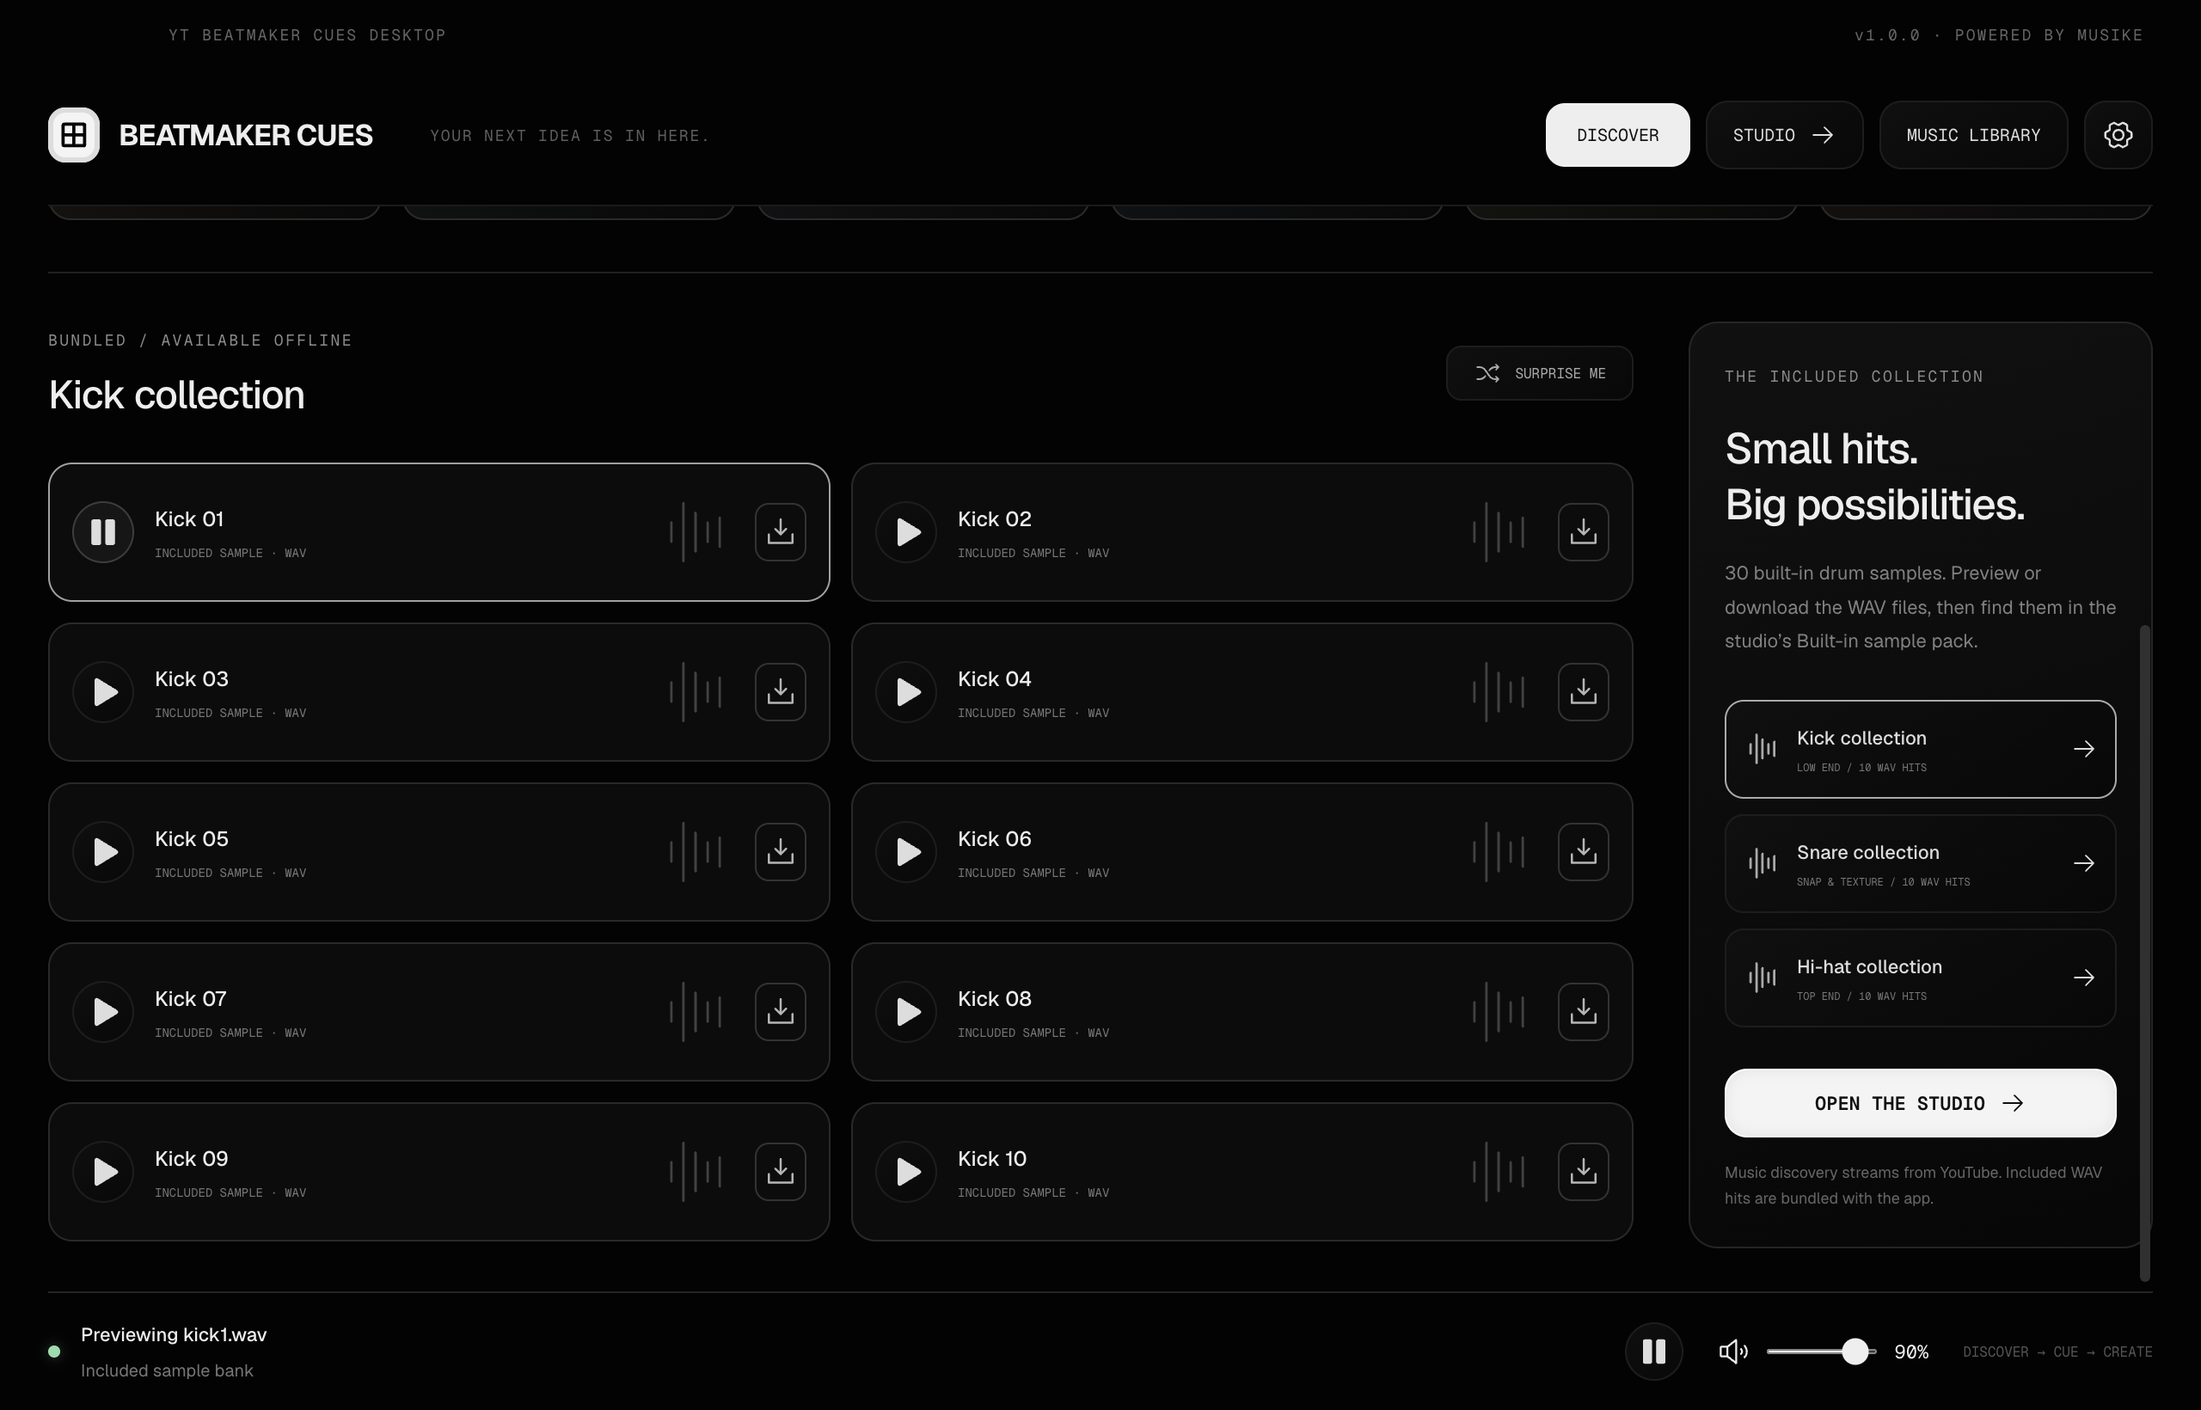
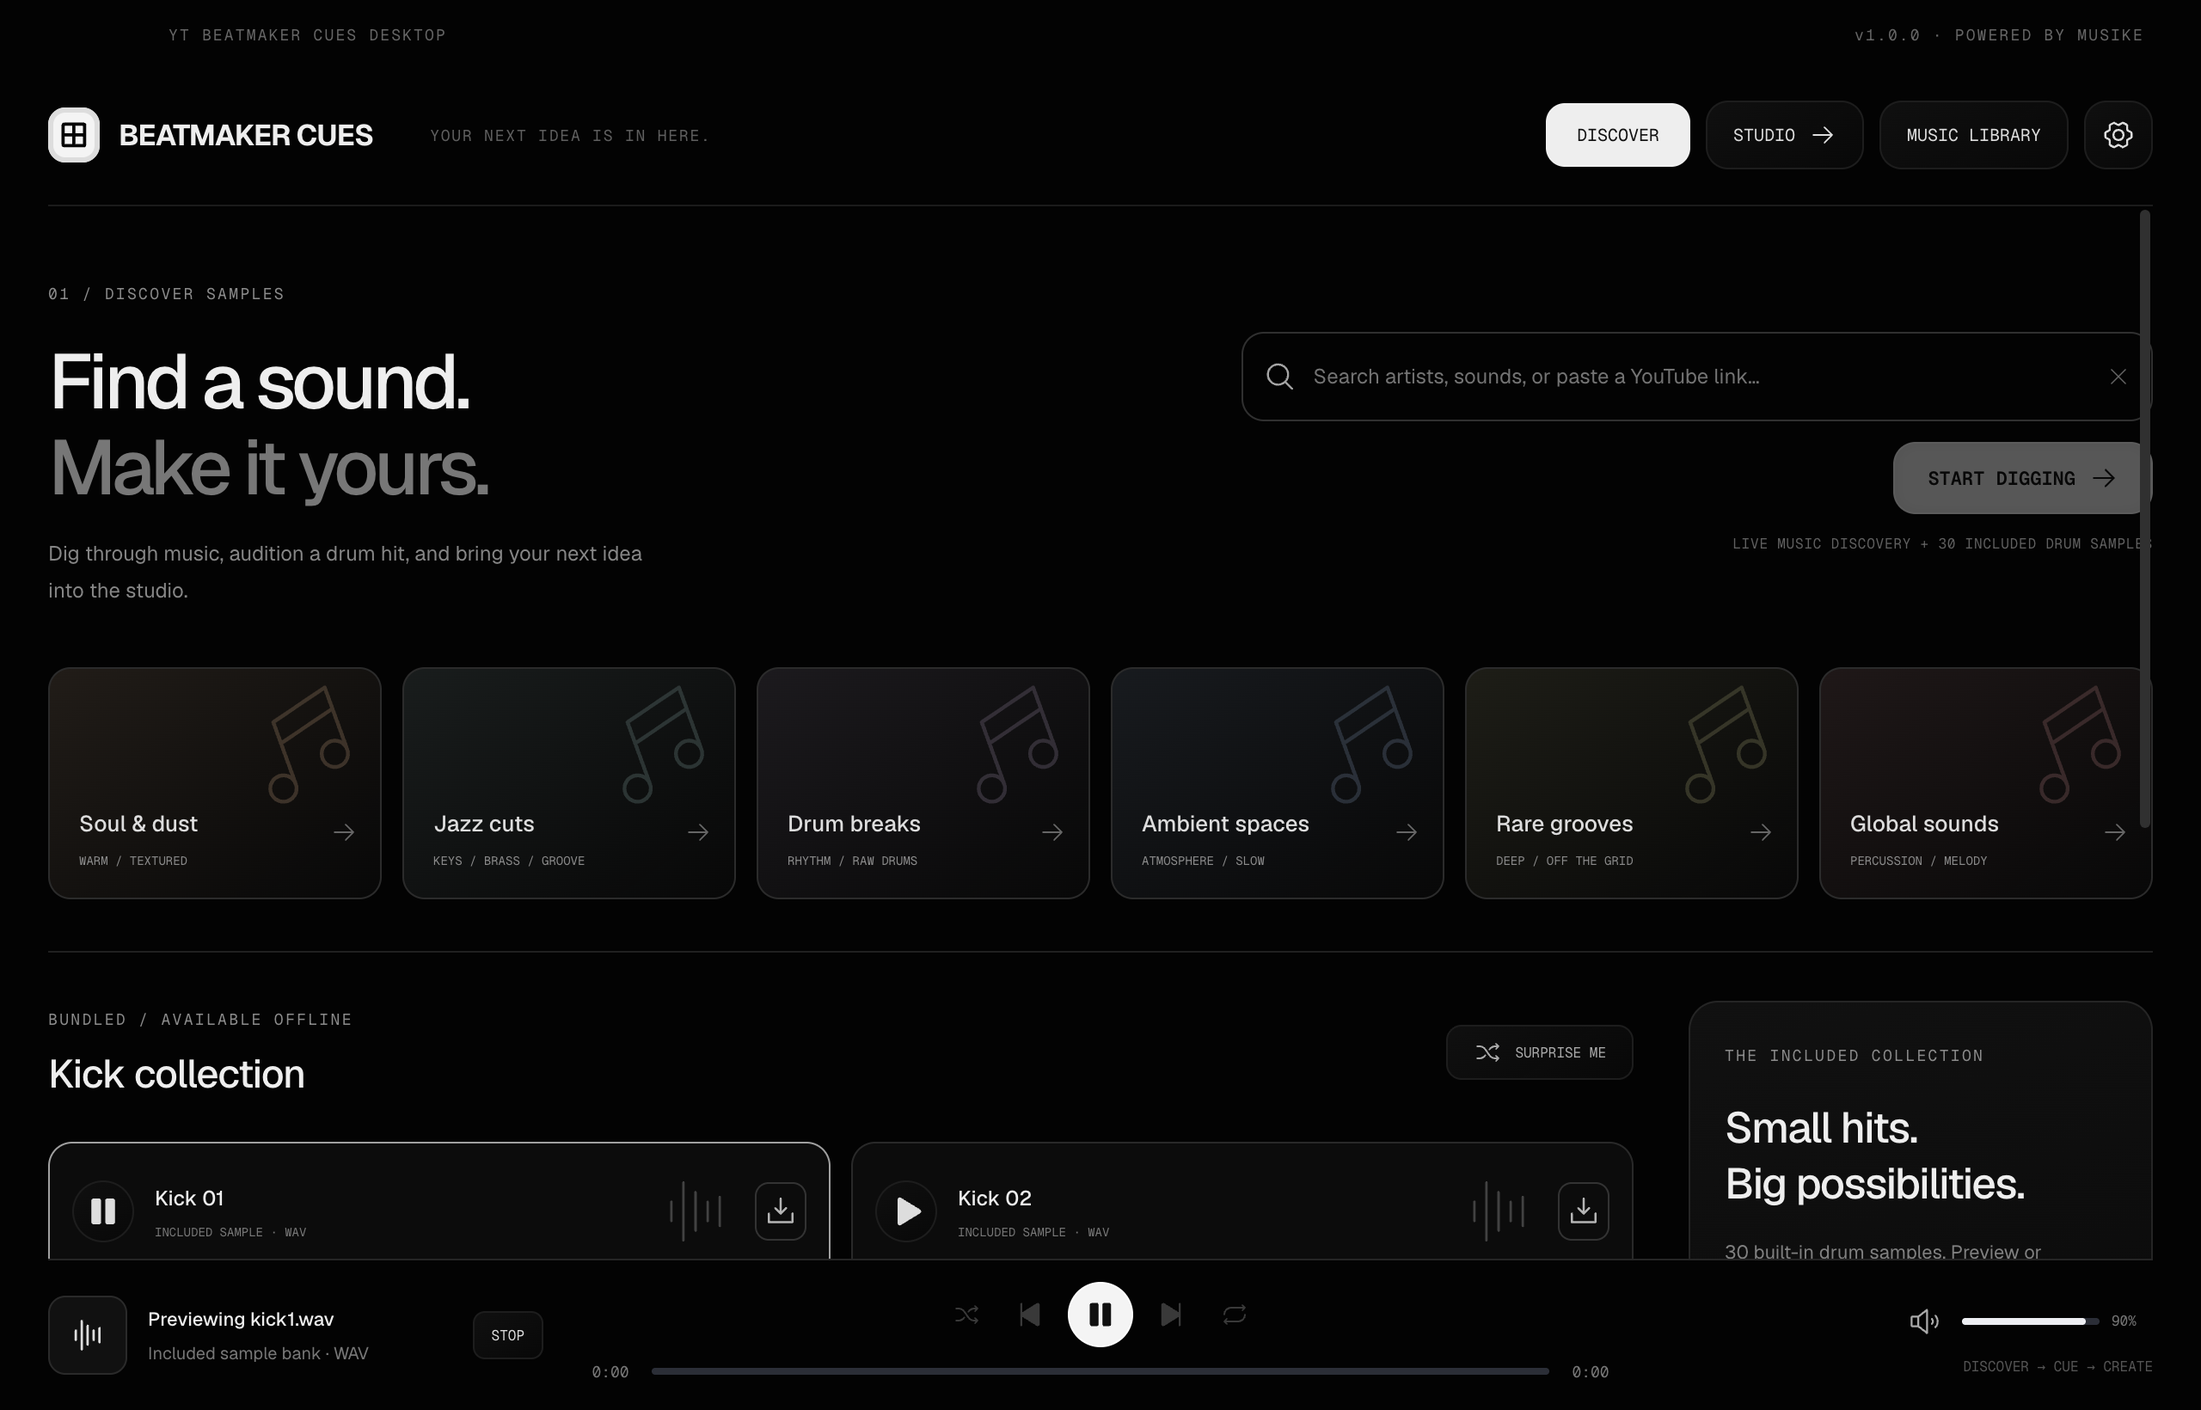
fix(discover): add the global player bar to the footer

diff --git a/web/src/beatmaker/DiscoverSamples.tsx b/web/src/beatmaker/DiscoverSamples.tsx
@@ -1,13 +1,15 @@
 import { useEffect, useRef, useState, type CSSProperties } from "react";
-import { ArrowRight, DownloadSimple, GearSix, GridFour, Heart, MagnifyingGlass, MusicNotes, Pause, Play, Shuffle, SpeakerHigh, Waveform, X } from "@phosphor-icons/react";
+import { ArrowRight, DownloadSimple, GearSix, GridFour, Heart, MagnifyingGlass, MusicNotes, Pause, Play, Repeat, RepeatOnce, Shuffle, SkipBack, SkipForward, SpeakerHigh, SpeakerX, Waveform, X } from "@phosphor-icons/react";
 import { api } from "../lib/api";
 import { desktop } from "../lib/desktop";
+import { formatTime } from "../lib/format";
 import type { Track } from "../lib/types";
 import { selectCurrent, usePlayer, useStatusText } from "../player/player";
 import { useLibrary } from "../stores/library";
 import { openSettings } from "../stores/system";
 import { toast } from "../stores/ui";
 import { SettingsDialog } from "../components/SettingsDialog";
+import { Slider } from "../components/Slider";
 import { Toasts } from "../components/Toasts";
 import "./beatmaker.css";
 import "./discover.css";
@@ -28,11 +30,70 @@ const PACKS = [
 type Mode = "tracks" | typeof PACKS[number]["id"];
 const duration = (s: number) => `${Math.floor((s || 0) / 60)}:${Math.floor((s || 0) % 60).toString().padStart(2, "0")}`;
 
+function DiscoverPlayer({ sample, onStopSample, onOpenStudio }: { sample: string | null; onStopSample(): void; onOpenStudio(): void }) {
+  const current = usePlayer(selectCurrent);
+  const status = usePlayer((s) => s.status);
+  const statusText = useStatusText();
+  const position = usePlayer((s) => s.position);
+  const duration = usePlayer((s) => s.duration);
+  const buffered = usePlayer((s) => s.buffered);
+  const hasQueue = usePlayer((s) => s.queue.length > 0);
+  const shuffle = usePlayer((s) => s.shuffle);
+  const repeat = usePlayer((s) => s.repeat);
+  const volume = usePlayer((s) => s.volume);
+  const muted = usePlayer((s) => s.muted);
+  const seek = usePlayer((s) => s.seek);
+  const toggle = usePlayer((s) => s.toggle);
+  const prev = usePlayer((s) => s.prev);
+  const next = usePlayer((s) => s.next);
+  const toggleShuffle = usePlayer((s) => s.toggleShuffle);
+  const cycleRepeat = usePlayer((s) => s.cycleRepeat);
+  const setVolume = usePlayer((s) => s.setVolume);
+  const toggleMute = usePlayer((s) => s.toggleMute);
+  const isFavorite = useLibrary((s) => !!current && s.isFavorite(current.id));
+  const toggleFavorite = useLibrary((s) => s.toggleFavorite);
+  const level = muted ? 0 : volume;
+  const RepeatIcon = repeat === "one" ? RepeatOnce : Repeat;
+  const playing = status === "playing" || status === "loading";
+  const title = sample ? `Previewing ${sample.split("/").at(-1)}` : current?.title || "Pick a track or audition a sample";
+  const subtitle = sample ? "Included sample bank · WAV" : statusText || current?.artist || "Your next session starts with a sound.";
+  return <footer className="ds-player" aria-label="Global player">
+    <div className="ds-player-track">
+      <button className="ds-player-art" onClick={onOpenStudio} aria-label="Open the studio from the player">
+        {sample ? <Waveform size={22} /> : current?.art || current?.thumb ? <img src={current.art || current.thumb} alt="" /> : <MusicNotes size={21} />}
+      </button>
+      <div className="ds-player-meta"><strong title={title}>{title}</strong><span title={subtitle}>{subtitle}</span></div>
+      {sample ? <button className="ds-player-stop" onClick={onStopSample} aria-label="Stop sample preview">STOP</button> : current ? <button className={`ds-player-fav ${isFavorite ? "is-saved" : ""}`} onClick={() => void toggleFavorite(current)} aria-label={isFavorite ? `Remove ${current.title} from favorites` : `Add ${current.title} to favorites`}><Heart size={17} weight={isFavorite ? "fill" : "regular"} /></button> : null}
+    </div>
+    <div className="ds-player-center">
+      <div className="ds-player-transport">
+        <button aria-label="Shuffle discovery queue" className={shuffle ? "is-active" : ""} disabled={!hasQueue || !!sample} onClick={toggleShuffle}><Shuffle size={16} /></button>
+        <button aria-label="Previous track" disabled={!hasQueue || !!sample} onClick={prev}><SkipBack size={18} weight="fill" /></button>
+        <button className="ds-player-play" aria-label={sample ? "Pause sample preview" : playing ? "Pause" : "Play"} disabled={!sample && !hasQueue} onClick={sample ? onStopSample : toggle}>{sample || playing ? <Pause size={18} weight="fill" /> : <Play size={18} weight="fill" />}</button>
+        <button aria-label="Next track" disabled={!hasQueue || !!sample} onClick={next}><SkipForward size={18} weight="fill" /></button>
+        <button aria-label="Repeat discovery queue" className={repeat !== "off" ? "is-active" : ""} disabled={!hasQueue || !!sample} onClick={cycleRepeat}><RepeatIcon size={16} /></button>
+      </div>
+      <div className="ds-player-progress">
+        <span>{formatTime(position)}</span>
+        <Slider label="Playback position" value={position} max={duration} buffered={buffered} onChange={seek} step={5} valueText={formatTime} className="ds-player-scrubber" />
+        <span>{formatTime(duration)}</span>
+      </div>
+    </div>
+    <div className="ds-player-side">
+      <div className="ds-player-volume">
+        <button aria-label={muted ? "Unmute" : "Mute"} onClick={toggleMute}>{level === 0 ? <SpeakerX size={18} /> : <SpeakerHigh size={18} />}</button>
+        <Slider label="Discovery volume" value={level} max={1} step={0.05} live onChange={setVolume} valueText={(v) => `${Math.round(v * 100)}%`} className="ds-player-volume-slider" />
+        <span>{Math.round(level * 100)}%</span>
+      </div>
+      <span className="ds-player-hint">DISCOVER → CUE → CREATE</span>
+    </div>
+  </footer>;
+}
+
 export function DiscoverSamples({ onStudio, onBrowse }: { onStudio(track?: Track): void; onBrowse(): void }) {
   const library = useLibrary();
   const player = usePlayer();
   const current = usePlayer(selectCurrent);
-  const statusText = useStatusText();
   const [mode, setMode] = useState<Mode>("tracks");
   const [query, setQuery] = useState("");
   const [heading, setHeading] = useState("Jazz cuts");
@@ -139,12 +200,7 @@ export function DiscoverSamples({ onStudio, onBrowse }: { onStudio(track?: Track
         <aside className="ds-sidebar"><span className="bm-eyebrow">THE INCLUDED COLLECTION</span><h2>Small hits.<br />Big possibilities.</h2><p>30 built-in drum samples. Preview or download the WAV files, then find them in the studio’s Built-in sample pack.</p><div className="ds-packs">{PACKS.map(pack => <button className={mode === pack.id ? "is-selected" : ""} key={pack.id} onClick={() => openPack(pack.id, pack.title)}><span className="ds-pack-icon"><Waveform size={22} /></span><span><strong>{pack.title}</strong><small>{pack.label}</small></span><ArrowRight size={16} /></button>)}</div><button className="ds-open-studio bm-primary" onClick={() => openStudio()}>OPEN THE STUDIO <ArrowRight size={16} /></button><span className="ds-sidebar-note">Music discovery streams from YouTube. Included WAV hits are bundled with the app.</span></aside>
       </div>
     </main>
-    <footer className="ds-player">
-      <div className="ds-player-title"><span className="bm-dot" /><div><strong>{playingSample ? `Previewing ${playingSample.split("/").at(-1)}` : current?.title || "Pick a track or audition a sample"}</strong><span>{playingSample ? "Included sample bank" : statusText || current?.artist || "Your next session starts with a sound."}</span></div></div>
-      {playingSample ? <button aria-label="Stop sample preview" onClick={() => { sample.current?.pause(); setPlayingSample(null); }}><Pause size={19} weight="fill" /></button> : <button disabled={!current} aria-label={player.status === "playing" ? "Pause discovery preview" : "Play discovery preview"} onClick={player.toggle}>{player.status === "playing" ? <Pause size={19} weight="fill" /> : <Play size={19} weight="fill" />}</button>}
-      <label className="bm-volume"><SpeakerHigh size={18} /><input aria-label="Discovery volume" type="range" min="0" max="1" step="0.01" value={player.muted ? 0 : player.volume} onChange={e => player.setVolume(Number(e.target.value))} /><span>{Math.round((player.muted ? 0 : player.volume) * 100)}%</span></label>
-      <span className="ds-player-hint">DISCOVER → CUE → CREATE</span>
-    </footer>
+    <DiscoverPlayer sample={playingSample} onStopSample={() => { sample.current?.pause(); setPlayingSample(null); }} onOpenStudio={() => openStudio()} />
     <SettingsDialog studio /><Toasts />
   </div>;
 }

diff --git a/web/src/beatmaker/discover.css b/web/src/beatmaker/discover.css
@@ -67,13 +67,33 @@
 .ds-wave { color:#424242; margin-left:auto; }
 .ds-sample>a { color:#b5b5b5; display:grid; place-items:center; width:30px; height:34px; border:1px solid #333; border-radius:8px; }
 .ds-sample>a:hover { color:#fff; border-color:#999; }
-.ds-player { display:flex; gap:20px; align-items:center; min-height:69px; flex-shrink:0; border-top:1px solid #252525; }
-.ds-player-title { display:flex; gap:12px; align-items:center; min-width:0; flex:1; }
-.ds-player-title>div { display:flex; flex-direction:column; gap:5px; overflow:hidden; }
-.ds-player-title strong { font-size:11px; font-weight:500; overflow:hidden; text-overflow:ellipsis; white-space:nowrap; }
-.ds-player-title span { color:#777; font-size:10px; overflow:hidden; text-overflow:ellipsis; white-space:nowrap; }
-.ds-player>button { min-height:34px; width:34px; padding:0; border-radius:50%; }
+.ds-player { display:grid; grid-template-columns:minmax(0,1fr) minmax(320px,600px) minmax(0,1fr); align-items:center; gap:24px; min-height:88px; flex-shrink:0; border-top:1px solid #252525; padding:10px 0; }
+.ds-player-track { display:flex; align-items:center; gap:12px; min-width:0; }
+.ds-player-art { display:grid; place-items:center; width:46px; height:46px; min-height:46px!important; padding:0!important; flex-shrink:0; border:1px solid #2a2a2a!important; border-radius:10px!important; background:#111!important; color:#8a8a8a; overflow:hidden; }
+.ds-player-art img { width:100%; height:100%; object-fit:cover; }
+.ds-player-meta { display:flex; flex-direction:column; gap:4px; min-width:0; flex:1; }
+.ds-player-meta strong { font-size:11px; font-weight:500; overflow:hidden; text-overflow:ellipsis; white-space:nowrap; }
+.ds-player-meta span { font-size:10px; color:#777; overflow:hidden; text-overflow:ellipsis; white-space:nowrap; }
+.ds-player-fav { width:30px; min-width:30px; padding:0!important; border:0!important; background:none!important; color:#858585!important; flex-shrink:0; }
+.ds-player-fav.is-saved { color:#9bdab1!important; }
+.ds-player-stop { min-height:28px!important; padding:0 10px!important; border-radius:7px!important; font:8px "Geist Mono Variable",monospace!important; flex-shrink:0; }
+.ds-player-center { display:flex; flex-direction:column; align-items:center; gap:4px; width:100%; max-width:600px; justify-self:center; }
+.ds-player-transport { display:flex; align-items:center; gap:7px; }
+.ds-player-transport button { width:30px; min-width:30px; height:30px; min-height:30px; padding:0; border:0; border-radius:50%; background:none; color:#9c9c9c; }
+.ds-player-transport button:hover { background:#1a1a1a; color:#eee; border-color:transparent; }
+.ds-player-transport .ds-player-play { width:38px; min-width:38px; height:38px; min-height:38px; background:#f4f4f4; color:#101010; border:1px solid #fff; }
+.ds-player-transport .is-active { color:#9bdab1; }
+.ds-player-progress { display:flex; align-items:center; gap:9px; width:100%; font:9px "Geist Mono Variable",monospace; color:#777; }
+.ds-player-progress>span { min-width:30px; text-align:center; flex-shrink:0; }
+.ds-player-scrubber { flex:1; min-width:0; }
+.ds-player-side { display:flex; flex-direction:column; align-items:flex-end; gap:6px; min-width:0; }
+.ds-player-volume { display:flex; align-items:center; gap:7px; }
+.ds-player-volume button { width:30px; min-width:30px; height:30px; min-height:30px; padding:0; border:0; border-radius:50%; background:none; color:#aaa; }
+.ds-player-volume button:hover { background:#1a1a1a; color:#eee; border-color:transparent; }
+.ds-player-volume-slider { width:80px; }
+.ds-player-volume>span { font:8px "Geist Mono Variable",monospace; color:#777; min-width:24px; }
 .ds-player-hint { color:#555; font:8px "Geist Mono Variable",monospace; }
+@media(max-width:900px) { .ds-player { grid-template-columns:minmax(0,1fr) minmax(280px,480px) minmax(0,1fr); gap:14px; } .ds-player-volume-slider,.ds-player-volume>span { display:none; } }
 @media(max-width:1150px) { .ds-header-caption { display:none; } .ds-track-grid { grid-template-columns:repeat(3,minmax(0,1fr)); } .ds-content { grid-template-columns:minmax(0,1fr) 240px; gap:20px; } .ds-crates { grid-template-columns:repeat(3,minmax(0,1fr)); } .bm-app .ds-crate { height:100px; } .ds-crate-arrow { bottom:28px; } .ds-wave { display:none; } .ds-sample>a { margin-left:auto; } }
 @media(max-width:800px) { .ds-app { padding:0 17px; } .ds-content { grid-template-columns:1fr; } .ds-sidebar { grid-row:1; } .ds-sidebar h2,.ds-sidebar>p { display:none; } .ds-packs { flex-direction:row; margin:15px 0; } .ds-packs button { flex:1; min-width:0; } .ds-packs small { display:none; } .ds-packs button>svg { display:none; } .ds-hero { gap:20px; } .ds-hero h1 { font-size:38px; } .ds-navigation button { font-size:8px; padding:0 8px; } .ds-current-page { font-size:8px; padding:11px 8px; } .ds-player-hint { display:none; } }
-@media(max-width:650px) { .ds-app { height:100dvh; min-height:0; } .ds-header { gap:12px; } .ds-navigation { width:100%; margin:0; justify-content:flex-end; } .ds-hero { grid-template-columns:1fr; padding-top:25px; } .ds-search-form { max-width:none; } .ds-crates { grid-template-columns:repeat(2,minmax(0,1fr)); gap:8px; } .ds-track-grid { grid-template-columns:repeat(2,minmax(0,1fr)); } .ds-sample-grid { grid-template-columns:1fr; } .ds-packs { flex-direction:column; } .ds-packs button>svg { display:block; } .ds-packs small { display:block; } .ds-player { min-height:65px; gap:12px; } .ds-section-heading h2 { font-size:20px; } }
+@media(max-width:650px) { .ds-app { height:100dvh; min-height:0; } .ds-header { gap:12px; } .ds-navigation { width:100%; margin:0; justify-content:flex-end; } .ds-hero { grid-template-columns:1fr; padding-top:25px; } .ds-search-form { max-width:none; } .ds-crates { grid-template-columns:repeat(2,minmax(0,1fr)); gap:8px; } .ds-track-grid { grid-template-columns:repeat(2,minmax(0,1fr)); } .ds-sample-grid { grid-template-columns:1fr; } .ds-packs { flex-direction:column; } .ds-packs button>svg { display:block; } .ds-packs small { display:block; } .ds-player { grid-template-columns:minmax(0,1fr); gap:8px; min-height:0; padding:9px 0 6px; } .ds-player-art { width:40px; height:40px; min-height:40px!important; } .ds-player-center { max-width:none; } .ds-player-side { display:none; } .ds-player-transport { gap:6px; } .ds-section-heading h2 { font-size:20px; } }

diff --git a/CHANGELOG.md b/CHANGELOG.md
@@ -7,6 +7,7 @@ First release of **YT Beatmaker Cues Desktop** as a standalone project.
 ### Added
 
 - A Discover Samples opening page with music crates, live catalog search, previews and direct loading into the studio.
+- A global Discover player bar with artwork, transport, seeking, favorites and volume.
 - Thirty bundled WAV drum hits with preview and download actions.
 - A reference-inspired, monochrome desktop studio with a music library and four-column cue-pad grid.
 - Direct integration of the original YT Beatmaker Cues 2.4.5 engine with Musike's media element.
